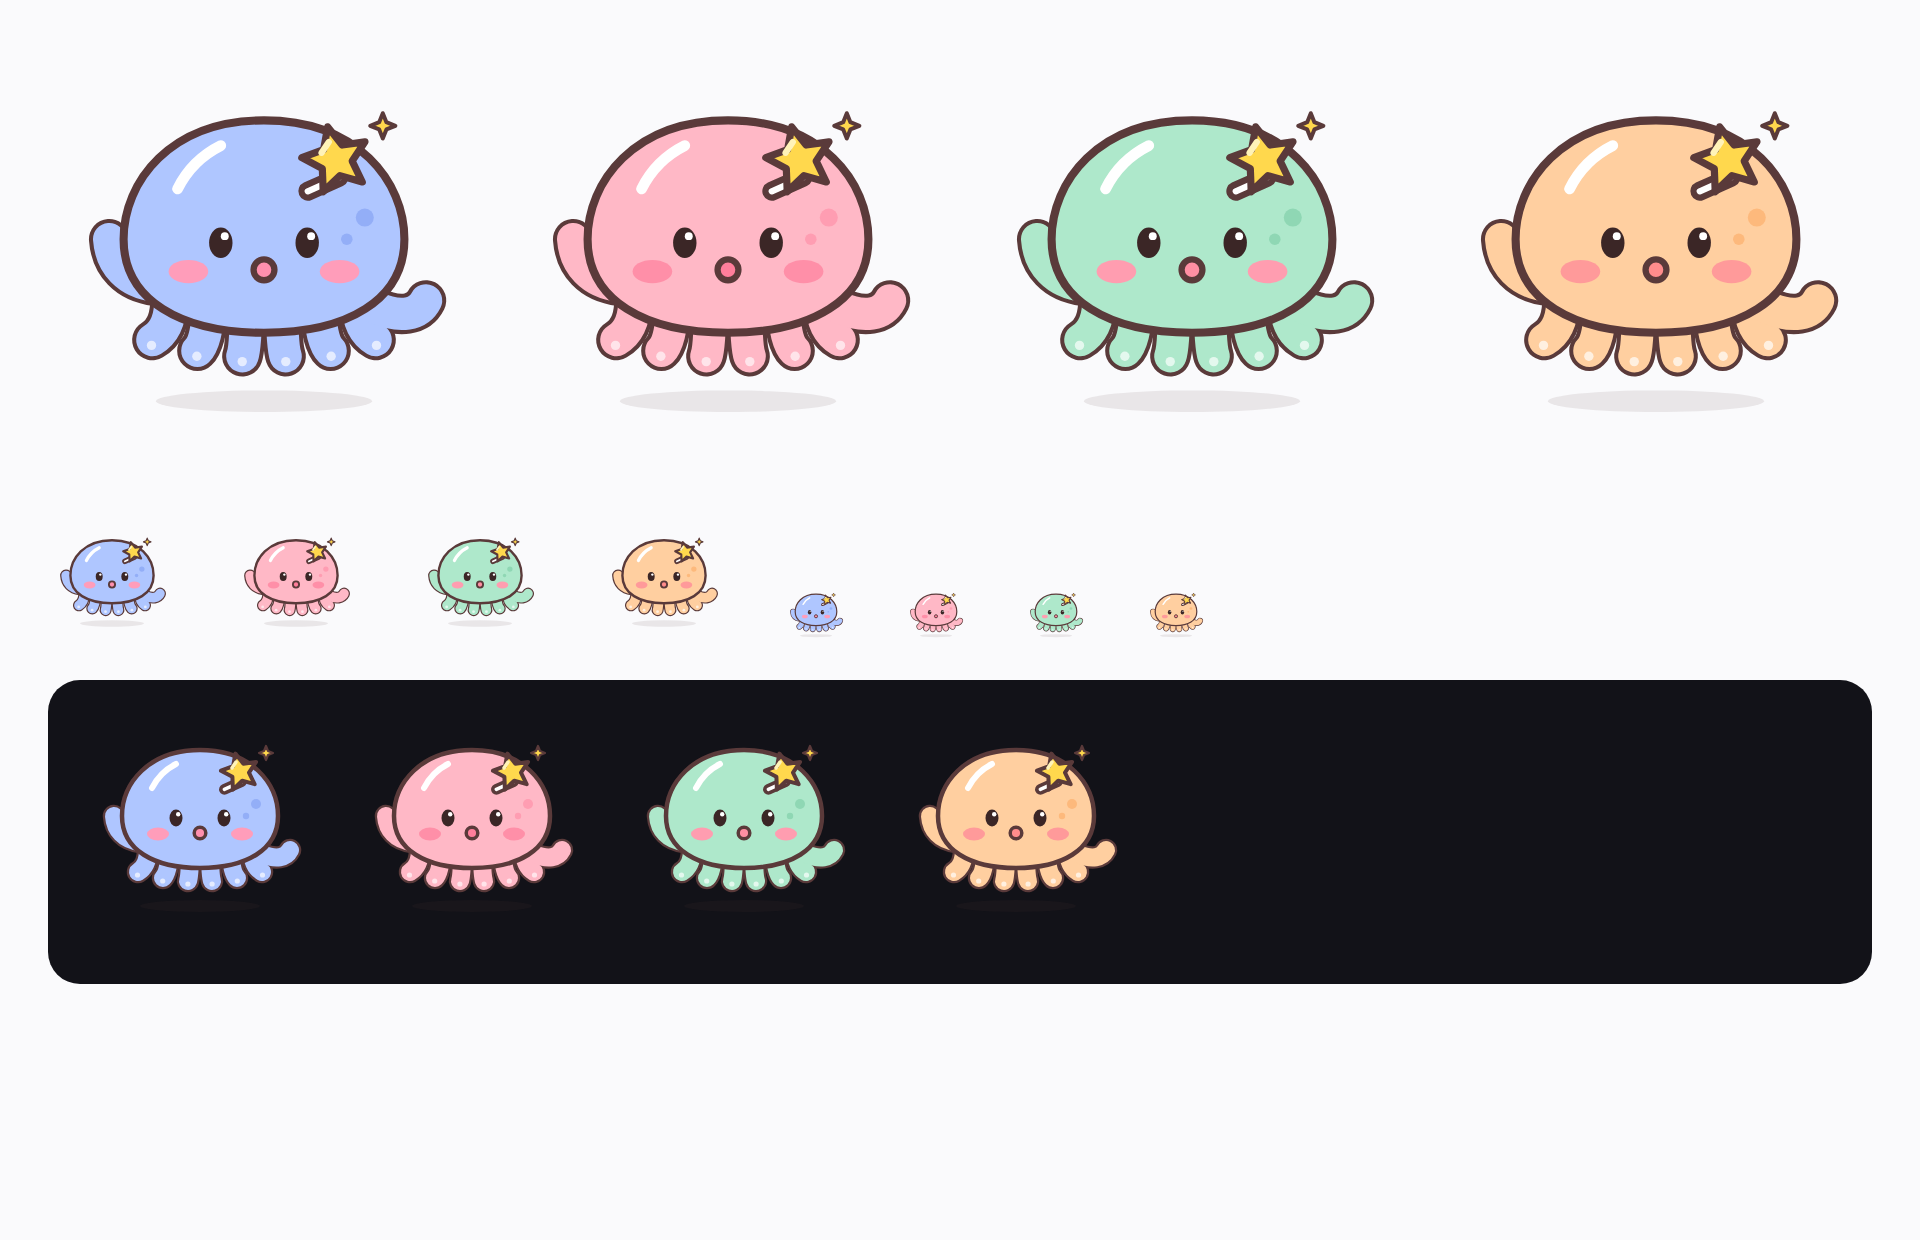
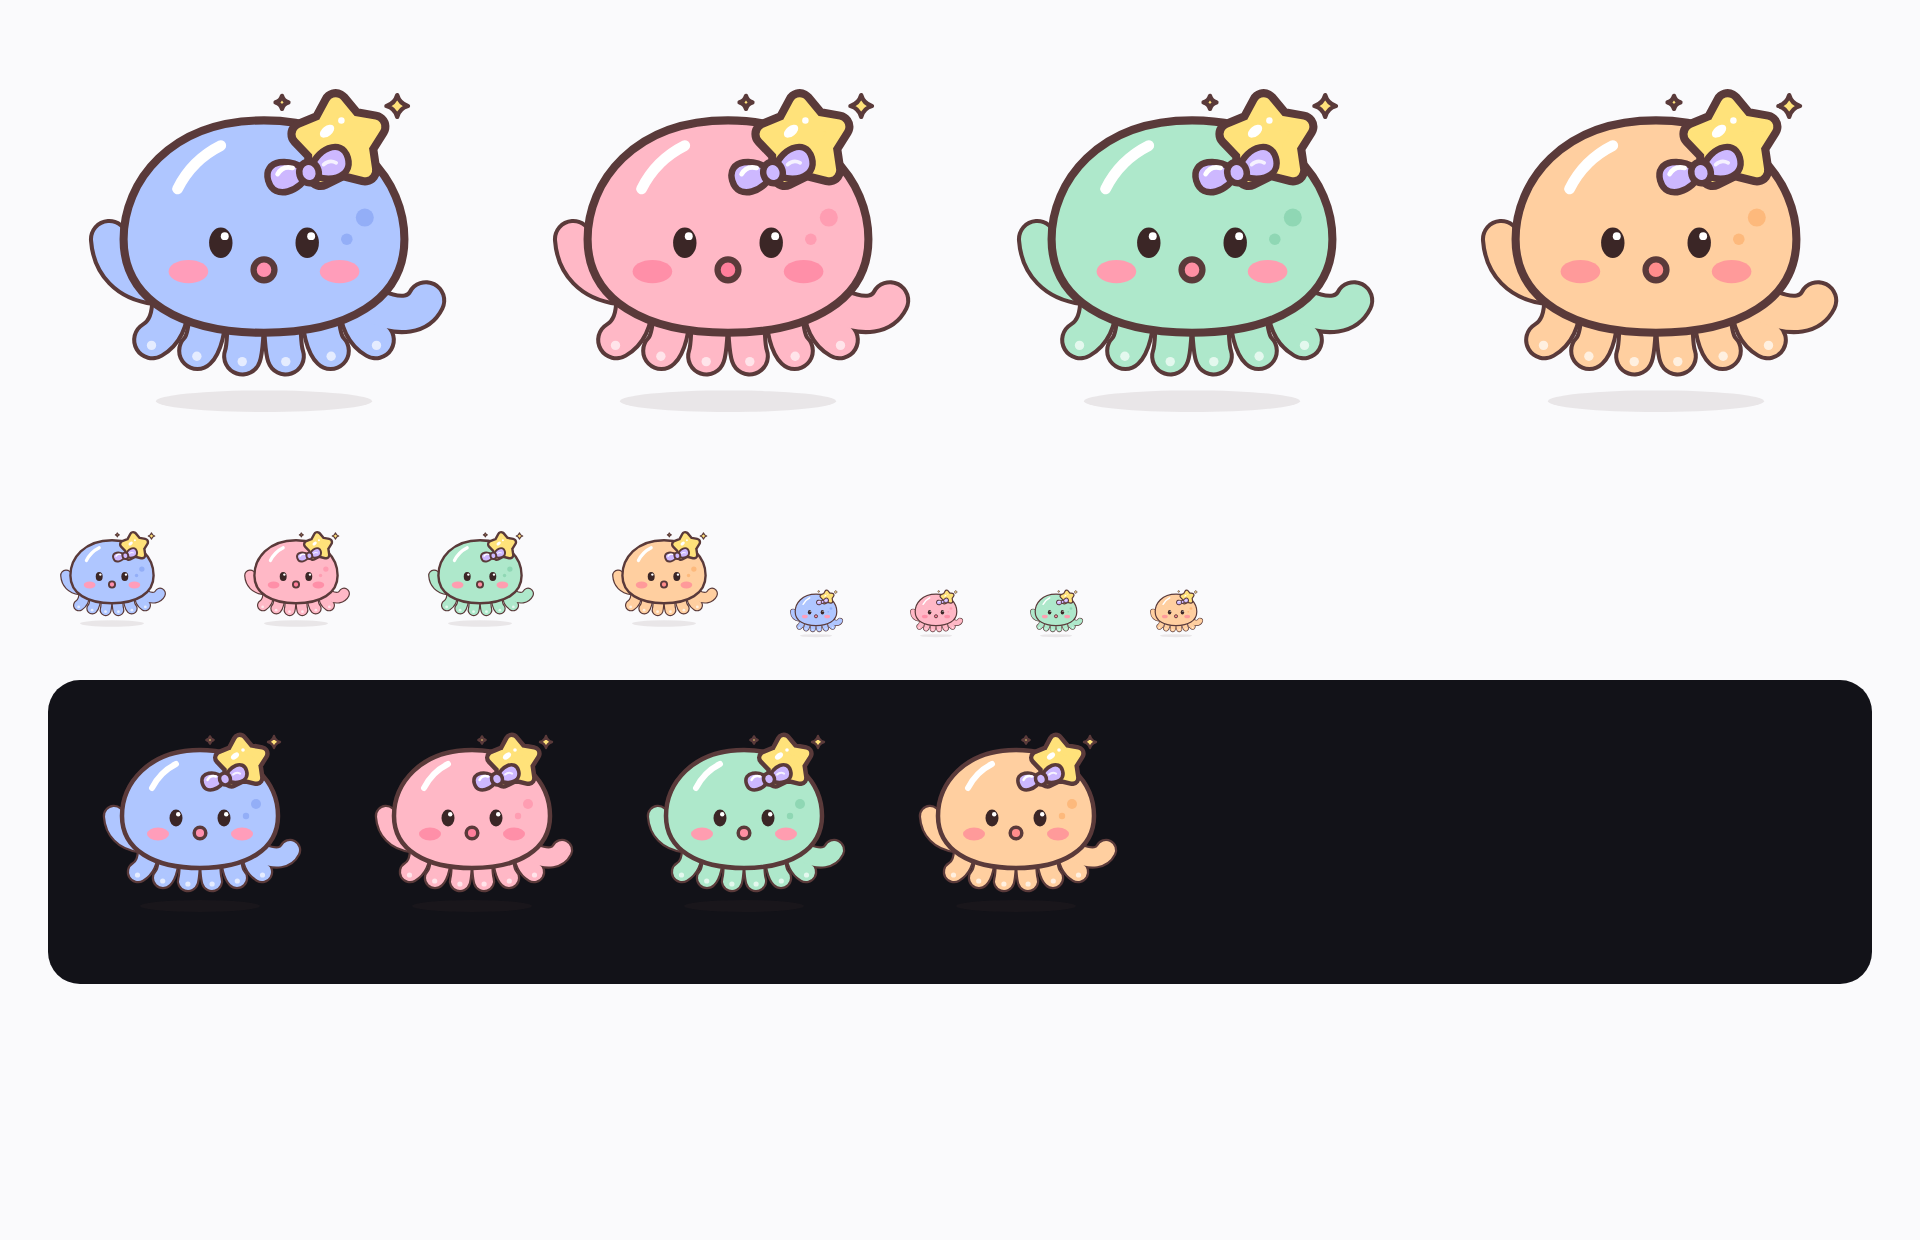
星のヘアピンを、ぷっくりした星とリボンのデザインにする
- 星：角を丸めた、ぷっくりした太い星にし、まっすぐ立てて大きくした。パステルの黄色に白いつや
- 星の手前に、ふっくらした輪のラベンダーのリボンを結んだ（4 つの界隈のどの色ともかぶらない色）
- きらめきを、角を丸めた 4 つの先の形にした

Claude-Session: https://claude.ai/code/session_01VoZEAaC47Q76gNdRbtJCL3

diff --git a/design/build_mascot.py b/design/build_mascot.py
@@ -17,8 +17,9 @@ GROUPS = {
     "G4": {"body": "#FFCFA0", "spot": "#FDB97C", "blush": "#FF9A9A", "mouth": "#FF8C8C", "sucker": "#FFF0E0"},
 }
 
-STAR_FILL = "#FFD84D"
-STAR_SHINE = "#FFF3B8"
+STAR_FILL = "#FFE27A"
+STAR_SHADE = "#FFC94D"
+BOW_FILL = "#CDB8FF"
 
 
 def star_points(cx, cy, r_out, r_in, rot_deg):
@@ -30,14 +31,47 @@ def star_points(cx, cy, r_out, r_in, rot_deg):
     return " ".join(pts)
 
 
+def puffy_star(cx, cy, r_out, r_in, rot, round_w=7):
+    """角を丸めた、ぷっくりした星。線の太さで角を丸め、外側に焦げ茶の輪郭を付ける"""
+    pts = star_points(cx, cy, r_out, r_in, rot)
+    return (
+        f'<polygon points="{pts}" fill="{LINE}" stroke="{LINE}" stroke-width="{round_w + 2 * W}" stroke-linejoin="round"/>'
+        f'<polygon points="{pts}" fill="{STAR_FILL}" stroke="{STAR_FILL}" stroke-width="{round_w}" stroke-linejoin="round"/>'
+    )
+
+
+def bow(cx, cy, rot, scale=1.0):
+    """小さなリボン（左右のふっくらした輪と、まん中の結び目）"""
+    loop = "M0 0 C -7 -12, -23 -14, -23 -2 C -23 10, -7 9, 0 0 Z"
+    return f'''<g transform="translate({cx} {cy}) rotate({rot}) scale({scale})" stroke="{LINE}" stroke-width="{3.6 / scale:.2f}" stroke-linejoin="round">
+    <path d="{loop}" fill="{BOW_FILL}"/>
+    <path d="{loop}" fill="{BOW_FILL}" transform="scale(-1 1)"/>
+    <path d="M-17 -4 Q -13 -8, -8 -5" fill="none" stroke="#FFFFFF" stroke-width="{2.6 / scale:.2f}" stroke-linecap="round"/>
+    <path d="M9 -2 Q 13 -4, 16 -1" fill="none" stroke="#FFFFFF" stroke-width="{2.0 / scale:.2f}" stroke-linecap="round" opacity="0.8"/>
+    <ellipse cx="0" cy="0" rx="5.4" ry="6" fill="{BOW_FILL}"/>
+  </g>'''
+
+
+def twinkle(cx, cy, r):
+    return (
+        f'<path d="M{cx} {cy - r} Q {cx + r * 0.22} {cy - r * 0.22}, {cx + r} {cy} Q {cx + r * 0.22} {cy + r * 0.22}, '
+        f'{cx} {cy + r} Q {cx - r * 0.22} {cy + r * 0.22}, {cx - r} {cy} Q {cx - r * 0.22} {cy - r * 0.22}, {cx} {cy - r} Z" '
+        f'fill="{STAR_FILL}" stroke="{LINE}" stroke-width="2.4" stroke-linejoin="round"/>'
+    )
+
+
 def hairpin():
-    """目印の小物：星のヘアピン。頭の右上に、少し傾けて留める"""
-    star = star_points(160, 60, 19, 9, -14)
+    """目印の小物：星のヘアピン。ぷっくりした星と、手前に結んだ小さなリボン"""
+    cx, cy = 162, 50
     return f'''
-  <rect x="140" y="70" width="26" height="7" rx="3.5" transform="rotate(-24 153 73.5)" fill="#FFFFFF" stroke="{LINE}" stroke-width="3.5"/>
-  <polygon points="{star}" fill="{STAR_FILL}" stroke="{LINE}" stroke-width="4" stroke-linejoin="round"/>
-  <path d="M152 56 L 156 50" stroke="{STAR_SHINE}" stroke-width="3.5" stroke-linecap="round"/>
-  <path d="M186 34 l 2 5 5 2 -5 2 -2 5 -2 -5 -5 -2 5 -2 z" fill="{STAR_FILL}" stroke="{LINE}" stroke-width="2.2" stroke-linejoin="round"/>'''
+  <g>
+    {puffy_star(cx, cy, 21, 12.5, -6, round_w=8)}
+    <ellipse cx="{cx - 7}" cy="{cy - 6}" rx="4.6" ry="2.8" fill="#FFFFFF" transform="rotate(-38 {cx - 7} {cy - 6})"/>
+    <circle cx="{cx + 1}" cy="{cy - 12}" r="1.8" fill="#FFFFFF"/>
+    {bow(cx - 17, cy + 17, -16, 1.0)}
+    {twinkle(194, 30, 6)}
+    {twinkle(130, 28, 3.6)}
+  </g>'''
 
 
 HEAD = "M120 38 C 172 38, 198 72, 198 104 C 198 138, 166 156, 120 156 C 74 156, 42 138, 42 104 C 42 72, 68 38, 120 38 Z"
